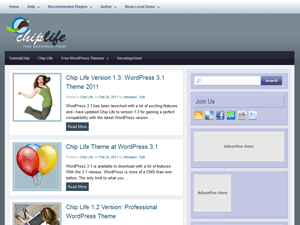
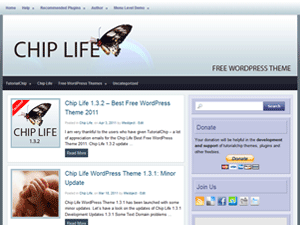
New version of Chip Life - 1.3.2

diff --git a/style.css b/style.css
@@ -4,8 +4,8 @@ Theme URI: http://chip-life.tutorialchip.com/
 Author: Life.Object
 Author URI: http://www.tutorialchip.com/
 Description: Chip Life (CL) theme for WordPress is stylish, customizable, flexible, readable, and professional with a power of custom menu, and background. Chip Life supports one widgetized area in the sidebar and featured images (thumbnails for posts). Check <a href="http://www.tutorialchip.com/chip-life/">CL Official Page</a> in case you need directions</a>.
-Version: 1.3.1
-Tags: dark, blue, white, two-columns, fixed-width, custom-menu, editor-style, theme-options, threaded-comments, sticky-post, custom-background
+Version: 1.3.2
+Tags: dark, blue, white, two-columns, fixed-width, editor-style, theme-options, threaded-comments, sticky-post, custom-menu, custom-background, custom-header, right-sidebar
 License: GNU General Public License v2.0
 License URI: http://www.gnu.org/licenses/gpl-2.0.html
 */

diff --git a/chip/option/options.php b/chip/option/options.php
@@ -27,6 +27,7 @@ class Chip_Life_Options {
 			add_settings_field( 'chip_life_field_logo', 'Use Image Logo in Header', array( 'Chip_Life_Options', 'chip_life_field_logo_fn' ), 'chip_life_sections', 'chip_life_section_blog' );
 			add_settings_field( 'chip_life_field_logo_url', 'Enter Logo URl - Dimension (215x125)', array( 'Chip_Life_Options', 'chip_life_field_logo_url_fn' ), 'chip_life_sections', 'chip_life_section_blog' );
 			
+			add_settings_field( 'chip_life_field_header_style', 'Header Style', array( 'Chip_Life_Options', 'chip_life_field_header_style_fn' ), 'chip_life_sections', 'chip_life_section_blog' );			
 			add_settings_field( 'chip_life_field_post_style', 'Post Style', array( 'Chip_Life_Options', 'chip_life_field_post_style_fn' ), 'chip_life_sections', 'chip_life_section_blog' );
 			
 			/** Chip Post Section */
@@ -103,7 +104,8 @@ class Chip_Life_Options {
 					'chip_life_logo'						=>	0,
 					'chip_life_logo_url'					=>	CHIP_LIFE_IMAGES_WSROOT.'logo.gif',
 					
-					'chip_life_post_style'					=>	'excerpt',
+					'chip_life_post_style'					=>	'excerpt',					
+					'chip_life_header_style'				=>	'header',
 					
 					'chip_life_related_post'				=>	0,
 					'chip_life_related_post_number'			=>	5,
@@ -187,6 +189,13 @@ class Chip_Life_Options {
 			return $temp;			
 		}
 		
+		/* Valid Header Styles */		
+		
+		function chip_header_style_pd() {			
+			$temp = array( 'header' => 'header', 'logo' => 'logo' );			
+			return $temp;			
+		}
+		
 		/* Valid Related Post Range */		
 		
 		function chip_related_posts_pd() {			
@@ -217,6 +226,12 @@ class Chip_Life_Options {
 			$chip_post_style_pd = Chip_Life_Options::chip_post_style_pd();
 			if ( ! array_key_exists( $input['chip_life_post_style'], $chip_post_style_pd ) ) {
 				 $input['chip_life_post_style'] = "excerpt";
+			}
+			
+			/* Validation: chip_life_header_style */
+			$chip_header_style_pd = Chip_Life_Options::chip_header_style_pd();
+			if ( ! array_key_exists( $input['chip_life_header_style'], $chip_header_style_pd ) ) {
+				 $input['chip_life_header_style'] = "header";
 			}
 			
 			/* Validation: chip_life_related_post */
@@ -379,7 +394,7 @@ class Chip_Life_Options {
 			echo '<div>Enter the logo URl</div>';
 		}
 		
-		/* Home Page Post Style */
+		/* Blog Post Style */
 		
 		function chip_life_field_post_style_fn() {
 			
@@ -389,6 +404,20 @@ class Chip_Life_Options {
 			foreach( $items as $key => $val ) {
 				$checked = ( $chip_life_options['chip_life_post_style'] == $key ) ? ' checked="checked" ' : '';
 				echo '<label><input type="radio" id="chip_life_post_style[]" name="chip_life_options[chip_life_post_style]" value="'.$key.'" '.$checked.' /> '.$val.'</label><br />';
+			}
+		
+		}
+		
+		/* Blog Header Style */
+		
+		function chip_life_field_header_style_fn() {
+			
+			$chip_life_options = get_option('chip_life_options');
+			$items = Chip_Life_Options::chip_header_style_pd();			
+			
+			foreach( $items as $key => $val ) {
+				$checked = ( $chip_life_options['chip_life_header_style'] == $key ) ? ' checked="checked" ' : '';
+				echo '<label><input type="radio" id="chip_life_header_style[]" name="chip_life_options[chip_life_header_style]" value="'.$key.'" '.$checked.' /> '.$val.'</label><br />';
 			}
 		
 		}	

diff --git a/functions.php b/functions.php
@@ -102,6 +102,18 @@ add_editor_style();
 add_custom_background();
 
 /**
+* Header Logic
+*/
+
+define( 'HEADER_TEXTCOLOR', 'ffffff' );
+define( 'HEADER_IMAGE', '%s/images/headers/chip_life.jpg' );
+define( 'HEADER_IMAGE_WIDTH', apply_filters( 'chip_life_header_image_width', 960 ) );
+define( 'HEADER_IMAGE_HEIGHT', apply_filters( 'chip_life_header_image_height', 200 ) );
+define( 'NO_HEADER_TEXT', true );
+
+add_custom_image_header( '', 'chip_life_admin_header_style' );
+
+/**
 * Support(s)
 */
 
@@ -138,4 +150,23 @@ $chip_life_global = array (
 		'theme_options'	=> get_option( 'chip_life_options' ),
 		'chip_image'	=> false,
 	);
+
+/**
+* Chip Life Admin Header Style
+*/
+
+function chip_life_admin_header_style() {
 ?>
+<style type="text/css">
+/* Shows the same border as on front end */
+.appearance_page_custom-header #headimg {
+	width: 960px;
+	height: 200px;
+}
+/* If NO_HEADER_TEXT is false, you would style the text with these selectors:
+	#headimg #name { }
+	#headimg #desc { }
+*/
+</style>
+<?php
+}

diff --git a/chip/common/copyright.php b/chip/common/copyright.php
@@ -6,7 +6,7 @@
     </div>
     
     <div class="chipsetr3 font11 alignr">
-        Theme Chip Life 1.3.1 by <a href="http://www.tutorialchip.com/" title="TutorialChip">TutorialChip</a> - Powered by <a href="http://wordpress.org/" title="WordPress">WordPress <?php bloginfo('version'); ?></a>
+        Theme Chip Life 1.3.2 by <a href="http://www.tutorialchip.com/" title="TutorialChip">TutorialChip</a> - Powered by <a href="http://wordpress.org/" title="WordPress">WordPress <?php bloginfo('version'); ?></a>
     </div>
     
     <br class="clear" />                

diff --git a/chip/option/setting.php b/chip/option/setting.php
@@ -8,10 +8,8 @@ if ( ! isset( $_REQUEST['updated'] ) ) {
   <h2><?php echo sprintf( '%1$s Theme Settings', get_current_theme() ); ?></h2>
   We really thanks of you for using <?php echo get_current_theme(); ?>.
   
-  <?php if ( false !== $_REQUEST['updated'] ) : ?>
-  <div id="message" class="updated fade">
-    <p><strong>Settings Saved.</strong></p>
-  </div>
+  <?php if ( $_REQUEST['settings-updated'] == "true" ) : ?>
+  <div class="updated fade"><p><strong>Settings Saved.</strong></p></div>
   <?php endif; ?>
   
   <form action="options.php" method="post">

diff --git a/header.php b/header.php
@@ -19,7 +19,7 @@
     <div id="header">
       <div id="headerdata">        
         <?php locate_template( array( CHIP_LIFE_COMMON_FSROOT . 'primary-menu.php' ), true, false ); ?>
-		<?php locate_template( array( CHIP_LIFE_COMMON_FSROOT . 'logospon.php' ), true, false ); ?>        
+        <?php locate_template( array( CHIP_LIFE_COMMON_FSROOT . 'header-style.php' ), true, false ); ?> 
         <?php locate_template( array( CHIP_LIFE_COMMON_FSROOT . 'secondary-menu.php' ), true, false ); ?>        
       </div>
     </div>

diff --git a/chip/common/header-style.php b/chip/common/header-style.php
@@ -1,0 +1,8 @@
+<?php
+global $chip_life_global;
+if( $chip_life_global['theme_options']['chip_life_header_style'] == "header" && get_header_image() ):
+locate_template( array( CHIP_LIFE_COMMON_FSROOT . 'header-background.php' ), true, false );
+else:
+locate_template( array( CHIP_LIFE_COMMON_FSROOT . 'logospon.php' ), true, false );
+endif;
+?>

diff --git a/chip/common/header-background.php b/chip/common/header-background.php
@@ -1,0 +1,5 @@
+<div class="logobox">
+  <div class="logoboxdata">
+	<a href="<?php echo CHIP_LIFE_HOME; ?>"><img src="<?php header_image(); ?>" width="<?php echo HEADER_IMAGE_WIDTH; ?>" height="<?php echo HEADER_IMAGE_HEIGHT; ?>" alt="" /></a>
+  </div>
+</div>
